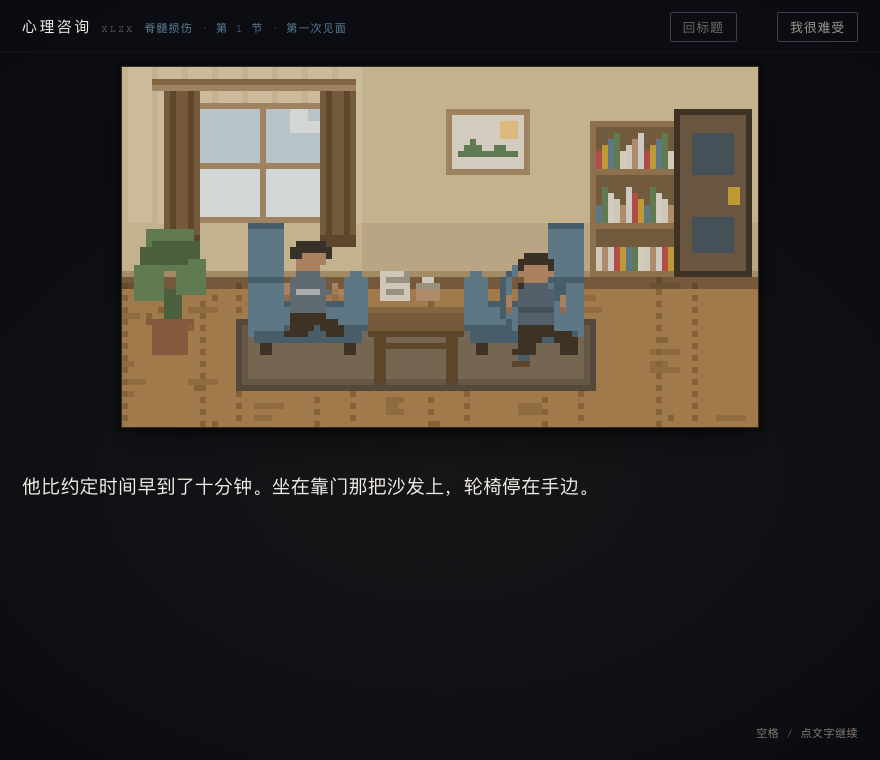
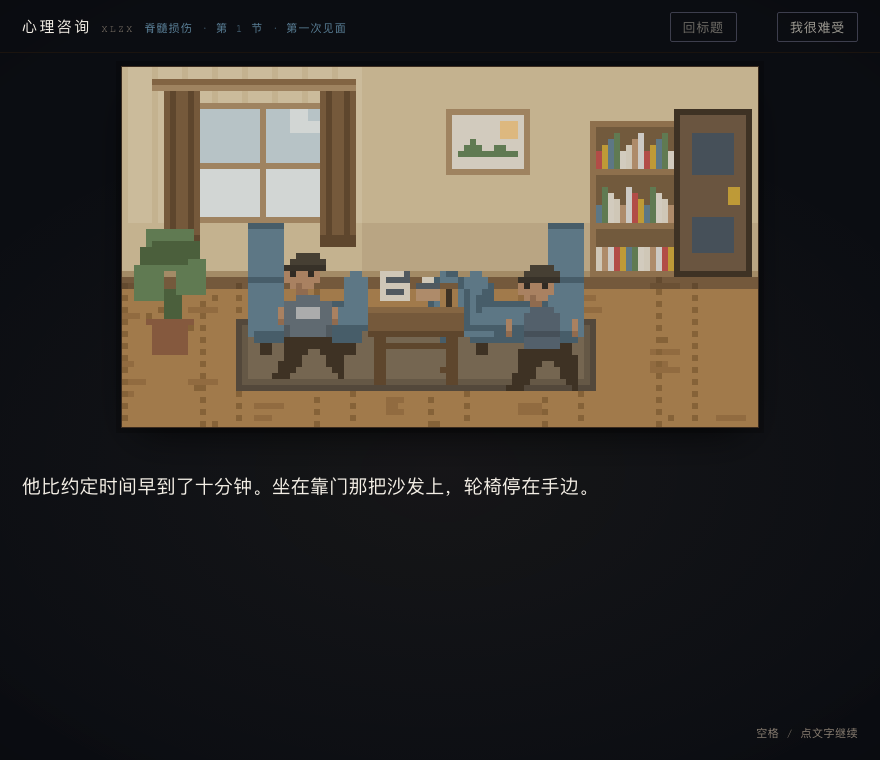
立绘优化：加出可辨认的眼睛与头发（原来脸是一块纯肤色）
原状：来访者/咨询师的头只有 5–6 px，脸是一整块纯肤色，头发是一块实心黑，
整张脸没有任何五官，两人只能靠衣服颜色区分。

改后：头部 8 宽 × 7 高，有发顶高光、发帘、额头、眼、鼻梁、嘴、下巴。
调色板补 5 个：Y 发顶高光 / V 头发暗部 / X 瞳 / W 眼白 / k 针织衫暗面。

过程走了 8 版，最值得记的是「眼睛」：画了 4 版才找对做法。
  v1 两个白块压在黑发上       → 读成戴风镜的头盔
  v2 上白下黑的 2×2 眼        → 白占主导，脸只剩两块白眼
  v3 深色为主 + 白高光        → 头发收得太狠，顶上分成两瓣像耳朵
  v5 去掉眼白，深色眼 + 高光   → 基本可用
  v6 逐格核对列号             → 发现 ZHHXXHXZ 把头发放在了眼睛该在的列
  v7 眼睛从 2 px 收到 1 px     → 原本两只眼在脸上连成一条横杠（像墨镜）
  v8 头 6→8 宽、收一行下巴     → 修脸偏长，定稿
结论写进代码注释：脸小的时候不能画眼白——一有眼白，脸上最亮的就是它，
人只会看到两只白眼。这个尺寸下「深色眼 + 1 点高光」才读成人脸。

区分两人用轮廓不用颜色：咨询师发际线更高（露额）、肩更宽、内有浅灰 T 恤。
脸只有 8 px 宽时，轮廓比配色可靠。

顺带修一个原本被挡住的问题：轮椅摆在 x=63，完全落在沙发（56–77）里面，
等于看不见。移到沙发左侧过道 x=51，现在读作停在手边，与台词一致。

新增 tools/render-char-compare.mjs：按游戏实际 6 倍放大出改前改后对比图。
判断五官大小必须按这个倍率看——放大 12 倍的预览会让人误判。

Changed region(s): [[0.4295, 0.3329, 0.675, 0.5145], [0.3068, 0.3026, 0.3989, 0.5145]]

diff --git a/心理咨询.html b/心理咨询.html
@@ -1334,12 +1334,17 @@ body::before {
 // 方案 B 的 39 色里没有肤色、发色、衣服色（原本只画家具）。补 6 个，语气保持一致：低饱和。
 const PAL_EXT = {
   H: '#2a2622', // 头发（黑）
+  Y: '#3d3830', // 头发高光（顶光落在发顶，把"一团黑"打开）
+  V: '#191713', // 头发暗部（发帘下缘收一道，发际线才读得出来）
   Z: '#bd8e6b', // 皮肤
-  z: '#9c7154', // 皮肤（暗面）
+  z: '#9c7154', // 皮肤（暗面 / 下巴与颈部阴影）
+  X: '#221f1c', // 瞳（眼白与瞳分开，眉眼才读得出来）
+  W: '#f6f1ea', // 眼白
   E: '#4f6478', // 来访者卫衣（灰蓝，压得比沙发暗一点，不抢）
   e: '#3d4f60', // 来访者卫衣（暗面）
   K: '#5f707f', // 咨询师针织衫（比沙发浅，坐左边那把沙发时能分开）
   L: '#c0c6cc', // 咨询师内搭 T 恤（浅灰）
+  k: '#4a5a68', // 咨询师针织衫暗面
 };
 
 // 轮椅（14 × 17）：大轮 + 小前轮 + 脚踏 + 推手。
@@ -1367,44 +1372,53 @@ const WHEELCHAIR = [
 ];
 // 林越：坐姿，深色头发、灰蓝卫衣、手搭在扶手上，腿朝右搁在脚踏上
 const LINYUE = [
-  '    HHHH      ',
-  '   HHHHHH     ',
-  '   HZZZZH     ',
-  '   ZZZZZZ     ',
-  '    ZZZZ      ',
-  '    EEEE      ',
-  '   EEEEEE     ',
-  ' Z EEEEEE Z   ',
-  ' Z EEEEEE Z   ',
-  ' z eeeeee z   ',
-  '   EEEEEE     ',
-  '   EEEEEE     ',
-  '   DDDDDD     ',
-  '   DDDDDDDDD  ',
-  '   DDDD  DDDD ',
-  '   DDD    DDD ',
-  '  DDDD    DDD ',
+  '     YYYY        ',
+  '    YYYYYY       ',
+  '   HHHHHHH       ',
+  '   ZXZZXZ        ',
+  '   ZZZZZZ        ',
+  '    ZzZZ         ',
+  '     zz          ',
+  '     EEEE        ',
+  '    EEEEEE       ',
+  ' Z  EEEEEE  Z    ',
+  ' Z  EEEEEE  Z    ',
+  ' z  eeeeee  z    ',
+  '    EEEEEE       ',
+  '    EEEEEE       ',
+  '   DDDDDDDD      ',
+  '   DDDDDDDDDD    ',
+  '   DDDD  DDDD    ',
+  '   DDD    DDD    ',
+  '  DDDD    DDD    ',
+  '  DDD      DD    ',
+  ' DDD        D    ',
 ];
 
 // 咨询师（玩家）：坐在左边沙发上，面朝右，手里的笔和本子是玩家自己的视角，
 // 所以不画——画了会变成"看着自己"，很怪。
 const COUNSELOR = [
-  '   HHHHH      ',
-  '  HHHHHHH     ',
-  '  HHZZZZH     ',
-  '   ZZZZZ      ',
-  '   ZZZZ       ',
-  '   KKKK       ',
-  '  KKKKKK      ',
-  ' ZKKKKKK Z    ',
-  ' ZKLLLLKK Z   ',
-  ' zKKKKKK z    ',
-  '  KKKKKK      ',
-  '  KKKKKK      ',
-  '  DDDDDD      ',
-  '  DDDDDDDD    ',
-  '  DDDD DDDD   ',
-  ' DDDD   DDD   ',
+  '    YYYY         ',
+  '   YYYYYY        ',
+  '  HHHHHHH        ',
+  '  ZXZZXZ         ',
+  '  ZZZZZZ         ',
+  '   ZzZZ          ',
+  '    zz           ',
+  '    KKKK         ',
+  '  KKKKKKKK       ',
+  ' ZKKLLLLKKZ      ',
+  ' ZKKLLLLKKZ      ',
+  ' zKKKKKKKKz      ',
+  '  kKKKKKKk       ',
+  '  kKKKKKKk       ',
+  '  DDDDDDDD       ',
+  '  DDDDDDDDDD     ',
+  '  DDDD  DDDD     ',
+  '  DDD    DDD     ',
+  ' DDDD    DDD     ',
+  ' DDD      DD     ',
+  'DDD        D     ',
 ];
 
 // 人的画法分两种，别搞混：
@@ -1416,10 +1430,10 @@ const COUNSELOR = [
 // 头 y≈30–34，髋部 y≈41，腿 y≈42–45。
 const CHARS = {
   // 林越：靠门那把沙发（sofaR 在 x=56，坐垫 x=63–72）。
-  // 髋部要对上轮椅第 10 行的坐面（椅摆 y=33 → 画布 y=43），所以人摆在 y=31。
-  client: { chair: WHEELCHAIR, chairX: 63, chairY: 33, body: LINYUE, bodyX: 63, bodyY: 31 },
+  // 立绘从 11 行加高到 23 行，身体 y 下移 2 —— 否则发顶会顶进墙上的挂画。
+  client: { chair: WHEELCHAIR, chairX: 51, chairY: 34, body: LINYUE, bodyX: 63, bodyY: 33 },
   // 咨询师：左边那把（sofaL 在 x=20，坐垫 x=27–36），朝向画面右
-  counselor: { body: COUNSELOR, bodyX: 26, bodyY: 29 },
+  counselor: { body: COUNSELOR, bodyX: 25, bodyY: 31 },
 };
 
 // 钟针的时段变体。方案 B 的钟是「两点十分」，这里补另外两节要的时间。

diff --git a/src/sprites.js b/src/sprites.js
@@ -7,12 +7,17 @@
 // 方案 B 的 39 色里没有肤色、发色、衣服色（原本只画家具）。补 6 个，语气保持一致：低饱和。
 const PAL_EXT = {
   H: '#2a2622', // 头发（黑）
+  Y: '#3d3830', // 头发高光（顶光落在发顶，把"一团黑"打开）
+  V: '#191713', // 头发暗部（发帘下缘收一道，发际线才读得出来）
   Z: '#bd8e6b', // 皮肤
-  z: '#9c7154', // 皮肤（暗面）
+  z: '#9c7154', // 皮肤（暗面 / 下巴与颈部阴影）
+  X: '#221f1c', // 瞳（眼白与瞳分开，眉眼才读得出来）
+  W: '#f6f1ea', // 眼白
   E: '#4f6478', // 来访者卫衣（灰蓝，压得比沙发暗一点，不抢）
   e: '#3d4f60', // 来访者卫衣（暗面）
   K: '#5f707f', // 咨询师针织衫（比沙发浅，坐左边那把沙发时能分开）
   L: '#c0c6cc', // 咨询师内搭 T 恤（浅灰）
+  k: '#4a5a68', // 咨询师针织衫暗面
 };
 
 // 轮椅（14 × 17）：大轮 + 小前轮 + 脚踏 + 推手。
@@ -40,44 +45,53 @@ const WHEELCHAIR = [
 ];
 // 林越：坐姿，深色头发、灰蓝卫衣、手搭在扶手上，腿朝右搁在脚踏上
 const LINYUE = [
-  '    HHHH      ',
-  '   HHHHHH     ',
-  '   HZZZZH     ',
-  '   ZZZZZZ     ',
-  '    ZZZZ      ',
-  '    EEEE      ',
-  '   EEEEEE     ',
-  ' Z EEEEEE Z   ',
-  ' Z EEEEEE Z   ',
-  ' z eeeeee z   ',
-  '   EEEEEE     ',
-  '   EEEEEE     ',
-  '   DDDDDD     ',
-  '   DDDDDDDDD  ',
-  '   DDDD  DDDD ',
-  '   DDD    DDD ',
-  '  DDDD    DDD ',
+  '     YYYY        ',
+  '    YYYYYY       ',
+  '   HHHHHHH       ',
+  '   ZXZZXZ        ',
+  '   ZZZZZZ        ',
+  '    ZzZZ         ',
+  '     zz          ',
+  '     EEEE        ',
+  '    EEEEEE       ',
+  ' Z  EEEEEE  Z    ',
+  ' Z  EEEEEE  Z    ',
+  ' z  eeeeee  z    ',
+  '    EEEEEE       ',
+  '    EEEEEE       ',
+  '   DDDDDDDD      ',
+  '   DDDDDDDDDD    ',
+  '   DDDD  DDDD    ',
+  '   DDD    DDD    ',
+  '  DDDD    DDD    ',
+  '  DDD      DD    ',
+  ' DDD        D    ',
 ];
 
 // 咨询师（玩家）：坐在左边沙发上，面朝右，手里的笔和本子是玩家自己的视角，
 // 所以不画——画了会变成"看着自己"，很怪。
 const COUNSELOR = [
-  '   HHHHH      ',
-  '  HHHHHHH     ',
-  '  HHZZZZH     ',
-  '   ZZZZZ      ',
-  '   ZZZZ       ',
-  '   KKKK       ',
-  '  KKKKKK      ',
-  ' ZKKKKKK Z    ',
-  ' ZKLLLLKK Z   ',
-  ' zKKKKKK z    ',
-  '  KKKKKK      ',
-  '  KKKKKK      ',
-  '  DDDDDD      ',
-  '  DDDDDDDD    ',
-  '  DDDD DDDD   ',
-  ' DDDD   DDD   ',
+  '    YYYY         ',
+  '   YYYYYY        ',
+  '  HHHHHHH        ',
+  '  ZXZZXZ         ',
+  '  ZZZZZZ         ',
+  '   ZzZZ          ',
+  '    zz           ',
+  '    KKKK         ',
+  '  KKKKKKKK       ',
+  ' ZKKLLLLKKZ      ',
+  ' ZKKLLLLKKZ      ',
+  ' zKKKKKKKKz      ',
+  '  kKKKKKKk       ',
+  '  kKKKKKKk       ',
+  '  DDDDDDDD       ',
+  '  DDDDDDDDDD     ',
+  '  DDDD  DDDD     ',
+  '  DDD    DDD     ',
+  ' DDDD    DDD     ',
+  ' DDD      DD     ',
+  'DDD        D     ',
 ];
 
 // 人的画法分两种，别搞混：
@@ -89,10 +103,10 @@ const COUNSELOR = [
 // 头 y≈30–34，髋部 y≈41，腿 y≈42–45。
 const CHARS = {
   // 林越：靠门那把沙发（sofaR 在 x=56，坐垫 x=63–72）。
-  // 髋部要对上轮椅第 10 行的坐面（椅摆 y=33 → 画布 y=43），所以人摆在 y=31。
-  client: { chair: WHEELCHAIR, chairX: 63, chairY: 33, body: LINYUE, bodyX: 63, bodyY: 31 },
+  // 立绘从 11 行加高到 23 行，身体 y 下移 2 —— 否则发顶会顶进墙上的挂画。
+  client: { chair: WHEELCHAIR, chairX: 51, chairY: 34, body: LINYUE, bodyX: 63, bodyY: 33 },
   // 咨询师：左边那把（sofaL 在 x=20，坐垫 x=27–36），朝向画面右
-  counselor: { body: COUNSELOR, bodyX: 26, bodyY: 29 },
+  counselor: { body: COUNSELOR, bodyX: 25, bodyY: 31 },
 };
 
 // 钟针的时段变体。方案 B 的钟是「两点十分」，这里补另外两节要的时间。
